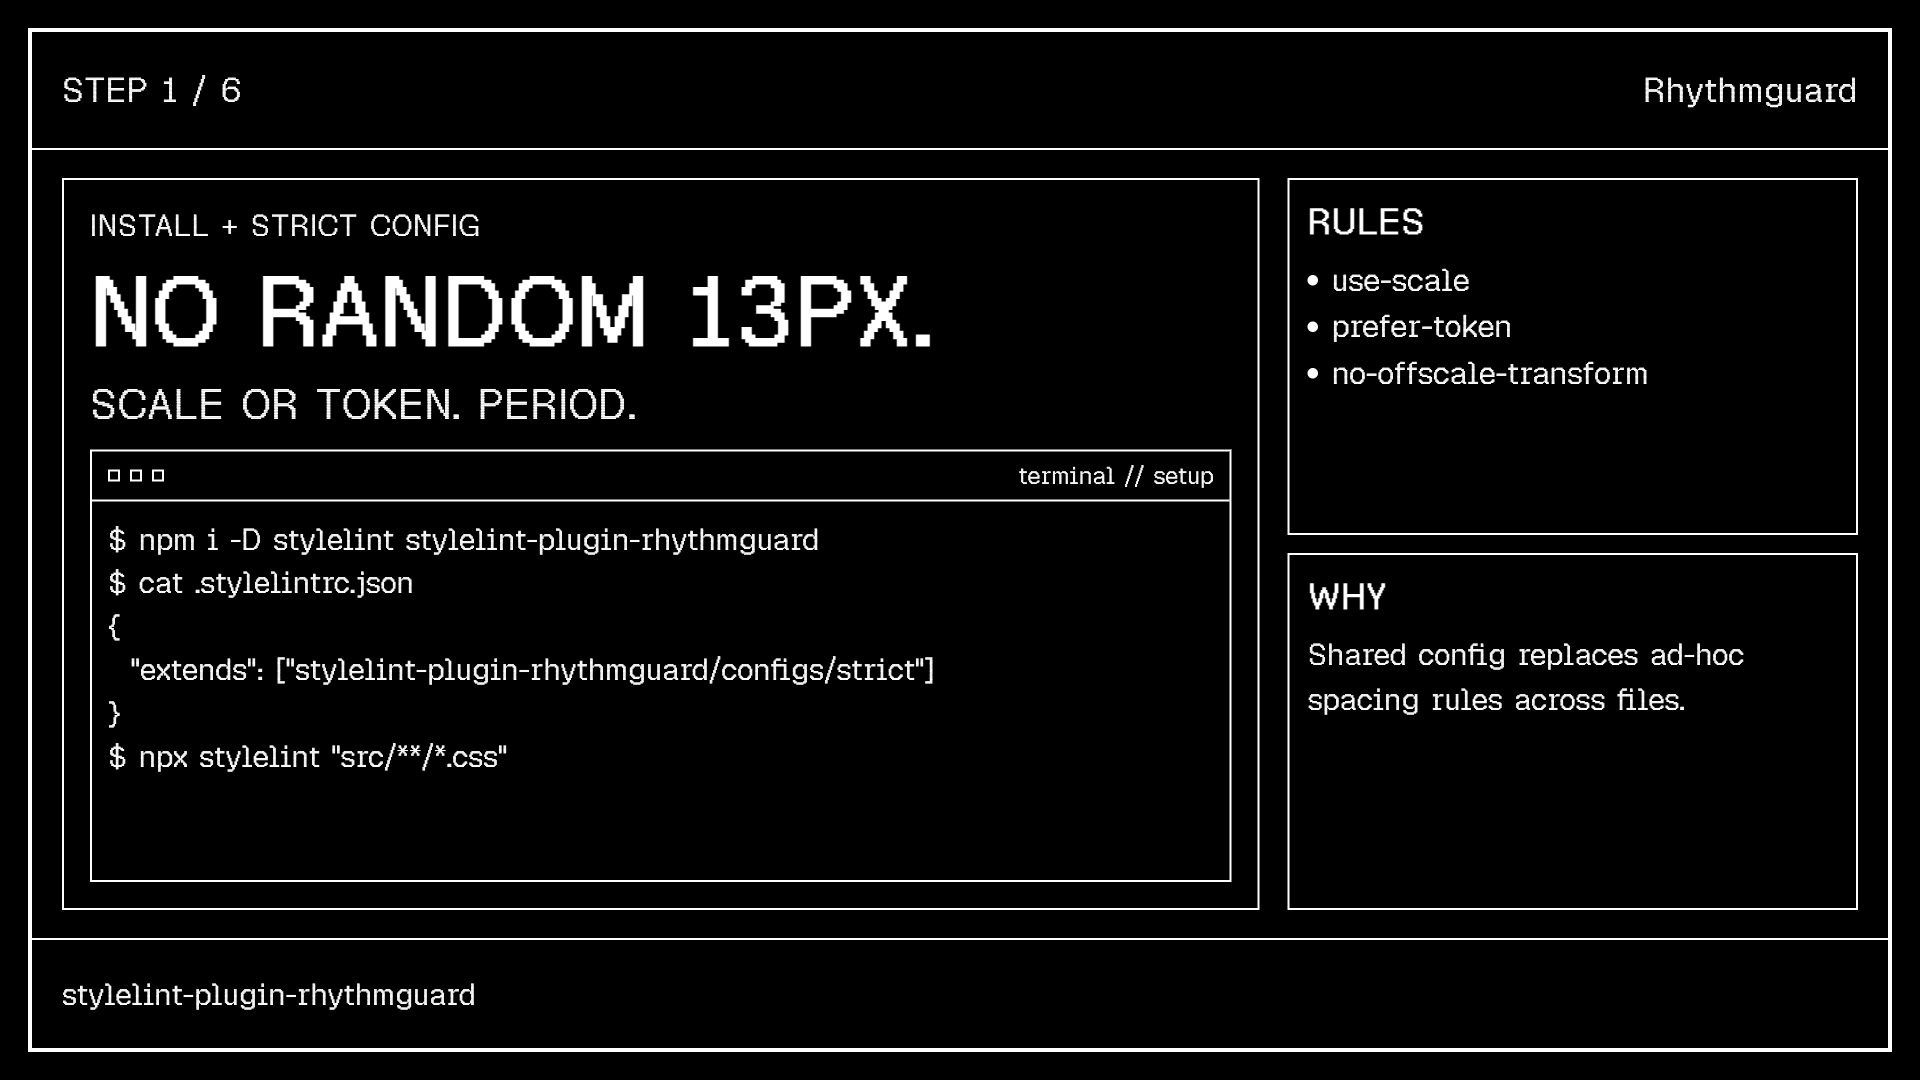
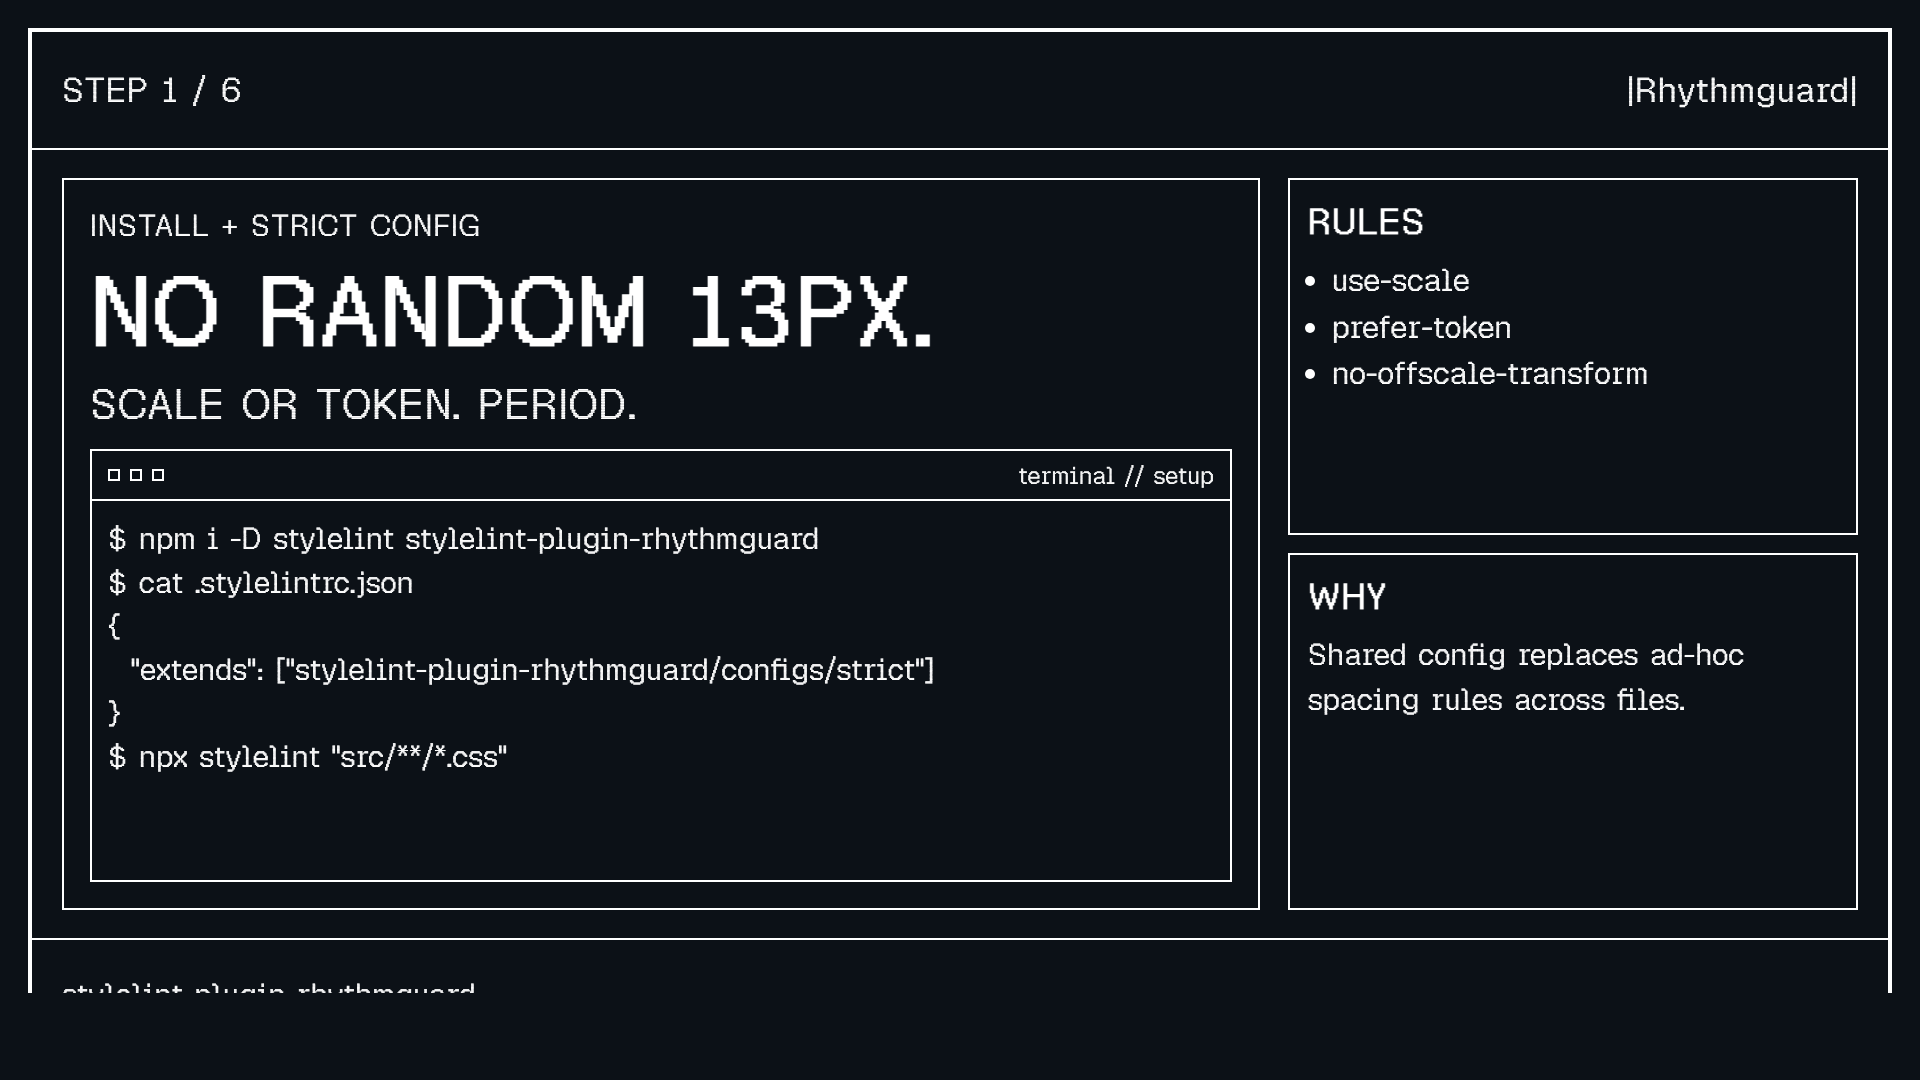
assets: rebrand 6 campaign scenes with #0C1117 bg and |Rhythmguard| header
- Update template bg from #000 to #0C1117 (GitHub dark mode compatible)
- Replace 'Rhythmguard' header text with '|Rhythmguard|' branding
- Regenerate all 6 scene PNGs (install, 3 rules, autofix, ship)

diff --git a/assets/rhythmguard-campaign-60s-template.html b/assets/rhythmguard-campaign-60s-template.html
@@ -13,7 +13,7 @@
       }
 
       :root {
-        --bg: #000;
+        --bg: #0C1117;
         --fg: #fff;
       }
 
@@ -172,7 +172,7 @@
     <div class="frame">
       <header class="header">
         <div id="step">STEP 1 / 6</div>
-        <div>Rhythmguard</div>
+        <div>|Rhythmguard|</div>
       </header>
       <main class="main">
         <section class="hero">
